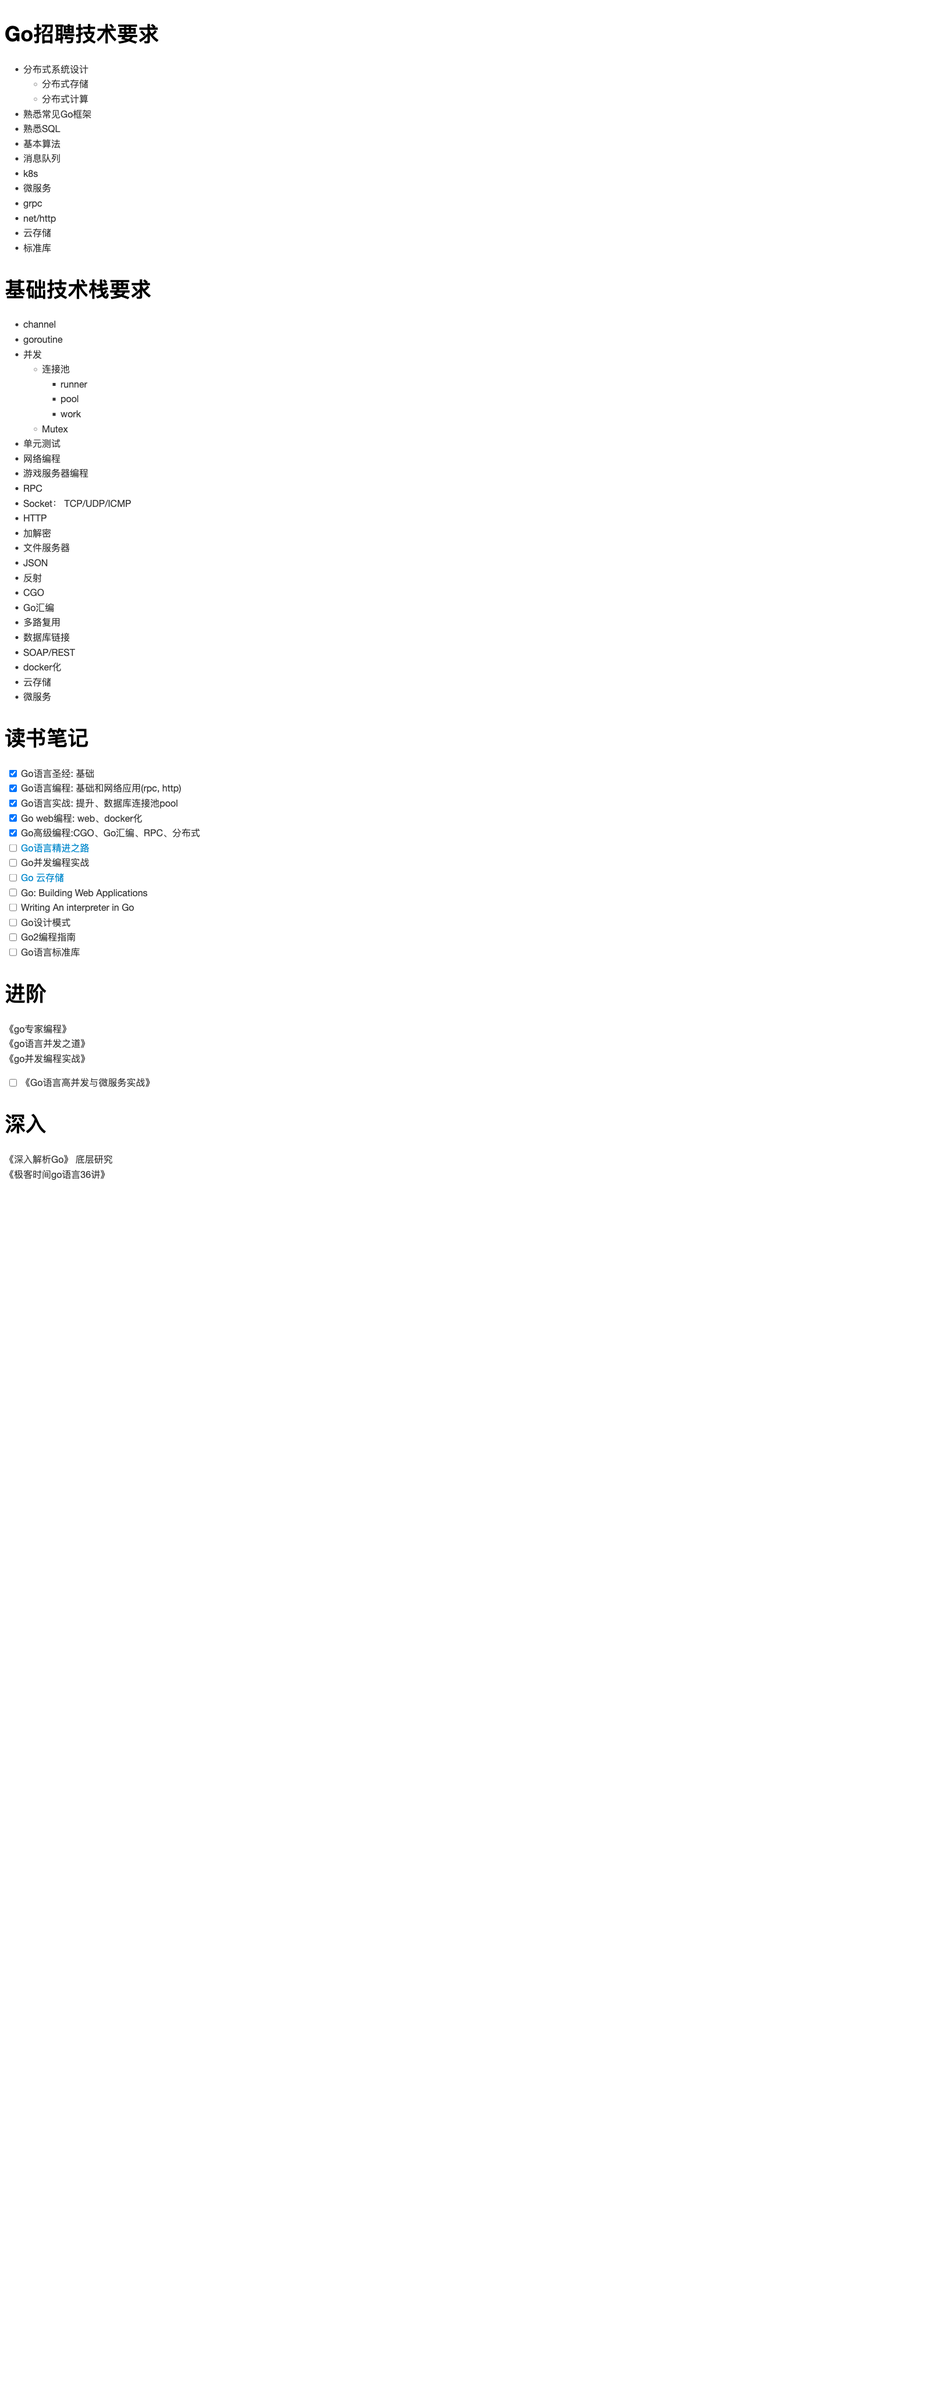
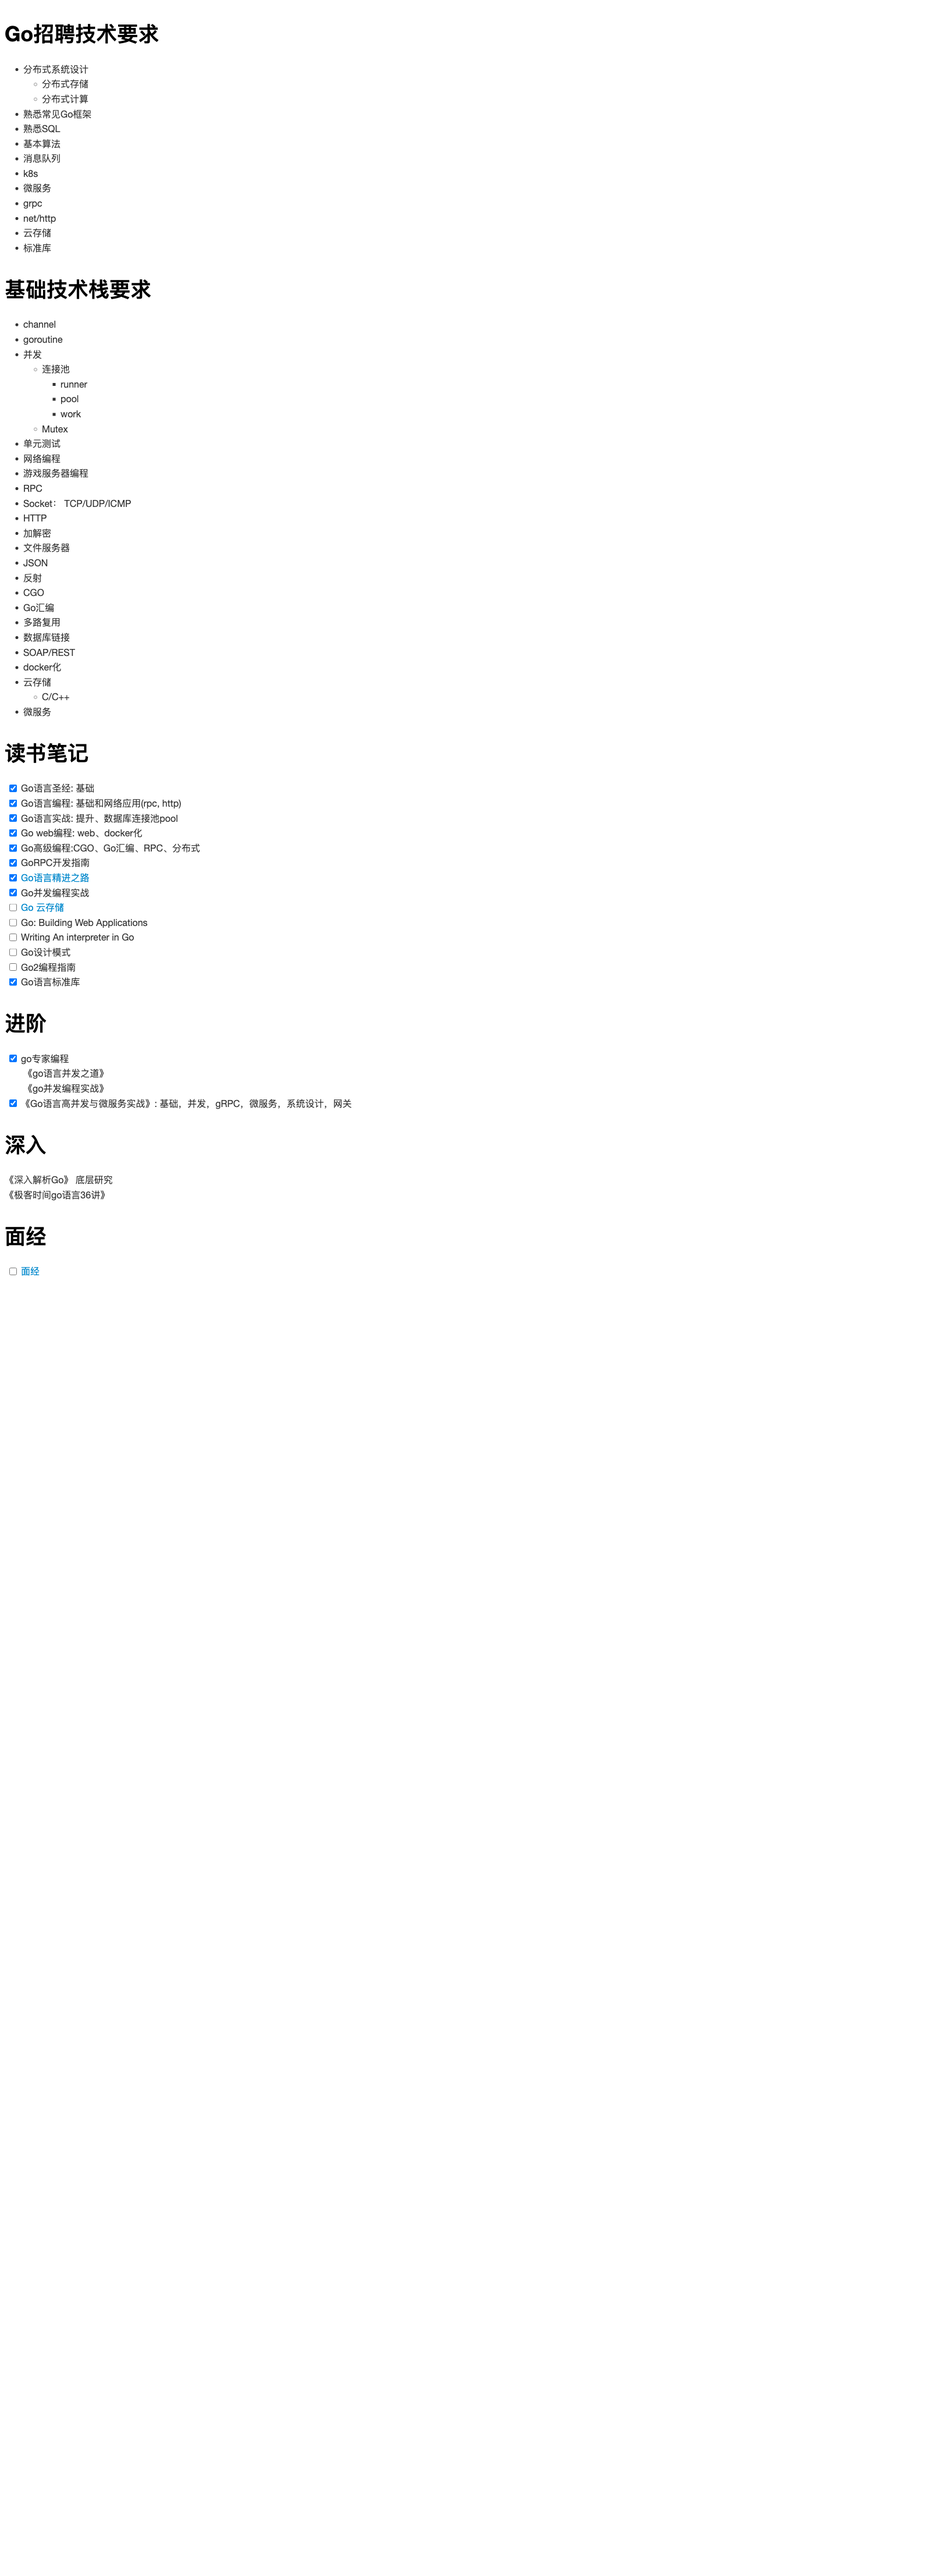
feat: 面经

Changed region(s): [[0.0, 0.0, 0.1875, 0.4965]]

diff --git a/面试.md b/面试.md
@@ -1,0 +1,125 @@
+# 米
+小米的面试官喜欢突击，晚上八点多收到小米电话，问什么时候有时间面试，我说都可以，然后说现在？我：？？？，还是改到其他时间了。
+二面也是突击，刚想跟小伙伴吃鸡，就打电话直接面试。
+
+## 一面
+
+解释goroutine，channel
+c++ 和 go对比
+java和go对比
+几种基本排序算法说一下，问了堆的时间复杂度，稳定性，为什么不稳定
+topk问题，海量数据topk（回答成切分多次加载内存，然后用维持k长度的有序链表，然后被说时间复杂度不好，提示说还是用堆，然后哦哦哦对）
+最长连续字串和，这里我说的解决方案没用dp（动态规划对dp不熟），面试官一直引导我dp，还是不会
+什么是主键
+联合索引和唯一索引
+越多的索引越好吗？
+建立索引要注意什么？某个字段，男，女 ，排序规则
+进程和线程区别？
+死锁？
+tcp三次握手
+http，https
+状态码401,301,302,201
+项目我说只有一台机子，所以用的单机部署，面试官说单机也可以部署多个，有什么方法吗？
+我说docker，问docker有哪些网络，不熟，dockerfile关键字，只答几个。顺便扯了下nginx转发。
+## 二面
+数据库隔离级别，提交读会造成什么
+go调度
+goroutine泄漏有没有处理，设置timeout，select加定时器
+项目
+
+# 南方基地
+南方基地是属于中国移动的，看没有很合适的岗位，就投了云计算与运维工程师
+
+## HR面
+
+有什么offer
+为什么选择这个岗位
+成绩
+## 二面
+
+看成绩
+怎么理解云计算
+postgrel和mysql区别
+mysql高可用的方案
+
+# 4399
+公司主要是java、erlang和php
+
+## 一面
+
+进程线程区别
+排序算法以及时间复杂度
+怎么学习go
+go的线程，给他讲了跟goroutine调度
+io模型，同步阻塞A->B->C，同步非阻塞，异步A,B,C并发，错开资源
+cookie和session---重复登陆，会话
+## HR面
+
+实习项目
+优缺点
+同学的评价
+兴趣爱好
+有什么offer
+## 三面
+
+MySQL DECIMAL(M,D) 中M和D是什么,函数，
+唯一订单号生成的算法问题-----sha512,time.
+
+接口kps测试，压力测试
+redis排行榜数据结构（跳跃表），查询时间复杂度
+skiplist
+p1* __   p2*____   log2N
+
+
+
+redis分布式，如何减少同步延迟,尽量在局域网，读写分离。命令模式---同步
+
+
+mysql能实现redis的功能吗，不能底层不一样，B+ ，索引hash,实现代价很大。
+
+
+平时怎么学习？
+看什么书？
+兴趣爱好
+看过google四篇分布式论文吗，没看过mapreduce,raft,
+
+
+
+cap理论，举例
+LRU算法，LFU  缓存使用次数算法
+讲讲怎么理解网络编程--协议，GRPC
+点触科技
+厦门的一家游戏公司，虽然他们服务端基本上是golang
+
+HR技术交叉面
+
+go使用踩过什么坑（for range，数据库连接defer close）
+go优缺点
+go命令，go get，go tool，go test，go vet
+go的值传递和引用
+慢查询
+为什么使用pg
+redis的数据类型
+
+# pg
+## 一面
+
+为什么选pg
+go的new和make区别
+go怎么从源码编译到二进制文件
+go的调度模型
+go的锁如何实现，用了什么cpu指令
+go的runtime如何实现
+看过sql的连接池实现吗，没有
+最近学什么新技术？c++简单网络库
+
+## 二面
+
+c++的map和go的map的区别（红黑树和hashtable）
+ctx包了解吗？有什么用？
+go什么情况下会发生内存泄漏？（他说ctx没有cancel的时候，这个真不知道）
+怎么实现协程完美退出？
+智力题：1000瓶酒中有1瓶毒酒，10只老鼠，7天后毒性才发作，第8天要卖了，怎么求那瓶毒酒？
+简单dp题，n*n矩阵从左上角到右下角有多少种走法（只限往下和往右走）
+
+

diff --git a/ReadMe.md b/ReadMe.md
@@ -39,6 +39,7 @@
 - SOAP/REST
 - docker化
 - 云存储
+	- C/C++
 - 微服务
 
 
